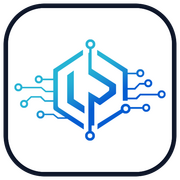
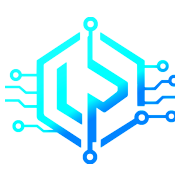
Actualizacion de la pagina oficial luxproc.com

diff --git a/index.html b/index.html
@@ -5,15 +5,29 @@
     <meta name="viewport" content="width=device-width, initial-scale=1.0" />
     <title>LUXPROC INNOVACION Y TECNOLOGIA S.A.C.</title>
     
-    <!-- LUXPROC Favicon & Brand Icons (High Visibility Squircle Badge) -->
-    <link rel="icon" type="image/png" sizes="48x48" href="/favicon-48x48.png?v=10" />
-    <link rel="icon" type="image/png" sizes="96x96" href="/favicon-96x96.png?v=10" />
-    <link rel="icon" type="image/png" sizes="192x192" href="/favicon-192x192.png?v=10" />
-    <link rel="icon" type="image/png" sizes="512x512" href="/favicon-512x512.png?v=10" />
-    <link rel="icon" id="dynamic-favicon" type="image/png" sizes="32x32" href="/favicon-32x32.png?v=10" />
-    <link rel="icon" type="image/png" sizes="16x16" href="/favicon-16x16.png?v=10" />
-    <link rel="shortcut icon" type="image/x-icon" href="/favicon.ico?v=10" />
-    <link rel="apple-touch-icon" sizes="180x180" href="/apple-touch-icon.png?v=10" />
+    <!-- Favicon Oficial LUXPROC (El que tiene el brillo y nitidez máxima) -->
[2 lines of base64/hex data omitted]
+
+    <!-- URL directa en la nube de alta fidelidad -->
+    <link rel="icon" type="image/png" href="https://i.imgur.com/69ASHMi.png" />
+    <link rel="apple-touch-icon" href="https://i.imgur.com/69ASHMi.png" />
+
+    <!-- Compatibilidad adicional y Google Search -->
+    <link rel="icon" type="image/png" sizes="16x16" href="/favicon-16x16.png?v=6" />
+    <link rel="icon" type="image/png" sizes="48x48" href="/favicon-48x48.png?v=6" />
+    <link rel="icon" type="image/png" sizes="96x96" href="/favicon-96x96.png?v=6" />
+    <link rel="icon" type="image/png" sizes="192x192" href="/favicon-192x192.png?v=6" />
+    <link rel="manifest" href="/site.webmanifest?v=6" />
+
+    <!-- Pre-carga de la imagen para que cargue al instante sin parpadeo -->
+    <link rel="preload" as="image" href="https://i.imgur.com/WWChkA9.png" />
+    <link rel="preload" as="image" href="https://i.imgur.com/69ASHMi.png" />
+    <link rel="preload" as="image" href="/logo-official.png" />
+    <link rel="preload" as="image" href="/favicon.png" />
+
+    <!-- Canonical URL -->
+    <link rel="canonical" href="https://luxproc.com" />
 
     <!-- Schema.org Organization Structured Data for Google Search Logo & Knowledge Graph -->
     <script type="application/ld+json">
@@ -21,9 +35,10 @@
       "@context": "https://schema.org",
       "@type": "Organization",
       "name": "LUXPROC INNOVACION Y TECNOLOGIA S.A.C.",
+      "alternateName": ["LUXPROC", "LUXPROC S.A.C."],
       "url": "https://luxproc.com",
-      "logo": "https://luxproc.com/favicon-512x512.png",
-      "image": "https://luxproc.com/favicon-512x512.png",
+      "logo": "https://i.imgur.com/WWChkA9.png",
+      "image": "https://i.imgur.com/69ASHMi.png",
       "description": "Ingeniería y consultoría tecnológica especializada en plataformas ERP, CRM, peritaje eléctrico colegiado CIP N° 278034 y soluciones de software a medida.",
       "email": "contacto@luxproc.com",
       "address": {
@@ -31,20 +46,38 @@
         "addressLocality": "Trujillo",
         "addressRegion": "La Libertad",
         "addressCountry": "PE"
-      }
+      },
+      "sameAs": [
+        "https://luxproc.com"
+      ]
     }
     </script>
     
     <!-- Meta & Theme -->
     <meta name="theme-color" content="#0F172A" />
     <meta name="description" content="LUXPROC INNOVACION Y TECNOLOGIA S.A.C. - Ingeniería y consultoría tecnológica especializada en plataformas ERP, CRM, sistemas IoT industriales y soluciones de software a medida." />
+    
+    <!-- OpenGraph Social Cards -->
+    <meta property="og:type" content="website" />
+    <meta property="og:site_name" content="LUXPROC" />
+    <meta property="og:url" content="https://luxproc.com" />
     <meta property="og:title" content="LUXPROC INNOVACION Y TECNOLOGIA S.A.C." />
     <meta property="og:description" content="Plataformas ERP, CRM, automatización de procesos e ingeniería de software a medida." />
-    <meta property="og:image" content="https://i.imgur.com/69ASHMi.png" />
+    <meta property="og:image" content="https://i.imgur.com/WWChkA9.png" />
+    <meta property="og:image:secure_url" content="https://i.imgur.com/WWChkA9.png" />
+    <meta property="og:image:type" content="image/png" />
+    <meta property="og:image:width" content="1305" />
+    <meta property="og:image:height" content="501" />
+    <meta property="og:image:alt" content="Logo Oficial LUXPROC INNOVACION Y TECNOLOGIA S.A.C." />
+
+    <!-- Twitter / X Cards -->
+    <meta name="twitter:card" content="summary_large_image" />
+    <meta name="twitter:title" content="LUXPROC INNOVACION Y TECNOLOGIA S.A.C." />
+    <meta name="twitter:description" content="Plataformas ERP, CRM, automatización de procesos e ingeniería de software a medida." />
+    <meta name="twitter:image" content="https://i.imgur.com/WWChkA9.png" />
   </head>
   <body>
     <div id="root"></div>
     <script type="module" src="/src/main.tsx"></script>
   </body>
 </html>
-

diff --git a/src/main.tsx b/src/main.tsx
@@ -79,30 +79,6 @@ if (typeof window !== "undefined") {
       event.preventDefault();
     }
   });
-  // Set dynamic brand favicon from LUXPROC logo with high-contrast badge (optimized for both dark and light browser tabs)
-  const setupFavicon = () => {
-    try {
-      // High-visibility LUXPROC badge (pure white squircle with subtle dark border and bold crystal isotype)
[1 lines of base64/hex data omitted]
-      
-      const links = document.querySelectorAll<HTMLLinkElement>("link[rel*='icon']");
-      if (links.length > 0) {
-        links.forEach((l) => {
-          l.href = highVisibilityFavicon;
-        });
-      } else {
-        const link = document.createElement("link");
-        link.type = "image/png";
-        link.rel = "shortcut icon";
-        link.href = highVisibilityFavicon;
-        document.head.appendChild(link);
-      }
-    } catch (e) {
-      console.warn("Favicon processing fallback:", e);
-    }
-  };
-
-  setupFavicon();
 }
 
 createRoot(document.getElementById('root')!).render(

diff --git a/src/components/BrandLogo.tsx b/src/components/BrandLogo.tsx
@@ -1,39 +1,58 @@
-import { useState } from "react";
-import logoDark from "../assets/logo-dark.png";
-import logoLight from "../assets/logo-light.png";
+import React, { useState } from "react";
 
 interface BrandLogoProps {
   className?: string;
   isDarkMode?: boolean;
+  id?: string;
 }
 
 export default function BrandLogo({
-  className = "h-11 md:h-12 w-auto",
+  className = "h-10 sm:h-12 w-auto max-w-[150px] sm:max-w-[200px] object-contain",
   isDarkMode = false,
+  id = "logo-text-fallback",
 }: BrandLogoProps) {
-  // En modo oscuro: las letras son 100% blancas (#FFFFFF), el isotipo gráfico mantiene sus colores originales idénticos.
-  // En modo claro: todo el logo y sus letras se mantienen exactamente con los colores originales.
-  const activeLogo = isDarkMode ? logoDark : logoLight;
-  const publicFallback = isDarkMode ? "/logo-dark.png" : "/logo-light.png";
-  const remoteFallback = "https://i.imgur.com/WWChkA9.png";
+  const [src, setSrc] = useState<string>("https://i.imgur.com/WWChkA9.png");
+  const [isFailed, setIsFailed] = useState<boolean>(false);
 
-  const [hasError, setHasError] = useState(false);
-  const [hasPublicError, setHasPublicError] = useState(false);
-
-  const imgSrc = hasPublicError ? remoteFallback : (hasError ? publicFallback : activeLogo);
+  const handleError = (e: React.SyntheticEvent<HTMLImageElement, Event>) => {
+    // 1. If external Imgur fails or is blocked by network/adblocker, immediately switch to local bundled official logo
+    if (src === "https://i.imgur.com/WWChkA9.png") {
+      setSrc("/logo-official.png");
+      return;
+    }
+    // 2. If local logo fails, try local favicon
+    if (src === "/logo-official.png") {
+      setSrc("/favicon.png");
+      return;
+    }
+    // 3. Only if all fail, hide img and reveal fallback element
+    e.currentTarget.style.display = "none";
+    setIsFailed(true);
+    const fallbackEl = document.getElementById(id);
+    if (fallbackEl) fallbackEl.style.display = "inline-flex";
+  };
 
   return (
     <div className="inline-flex items-center select-none group">
-      <img
-        src={imgSrc}
-        alt="LUXPROC INNOVACIÓN Y TECNOLOGÍA S.A.C."
-        className={`${className} object-contain transition-all duration-300 group-hover:scale-[1.02]`}
-        onError={() => {
-          if (!hasError) setHasError(true);
-          else if (!hasPublicError) setHasPublicError(true);
-        }}
+      <img 
+        src={src} 
+        alt="LUXPROC" 
+        className={`${className} object-contain transition-transform duration-300 group-hover:scale-[1.02]`}
         referrerPolicy="no-referrer"
+        onError={handleError}
       />
+      <span 
+        id={id} 
+        style={{ display: isFailed ? "inline-flex" : "none" }}
+        className="font-black text-xl tracking-tight text-slate-900 dark:text-white items-center gap-2"
+      >
+        <img 
+          src="/favicon-32x32.png" 
+          alt="LUXPROC" 
+          className="w-7 h-7 object-contain inline-block" 
+        />
+        <span>LUXPROC</span>
+      </span>
     </div>
   );
 }

diff --git a/server.ts b/server.ts
@@ -120,6 +120,32 @@ async function startServer() {
 
   app.use(express.json());
 
+  // High-priority static handler for all Favicons, Manifest and Brand Assets with public caching
+  app.use((req, res, next) => {
+    const p = req.path;
+    if (
+      p.startsWith("/favicon") ||
+      p.startsWith("/apple-touch-icon") ||
+      p.startsWith("/logo-") ||
+      p.endsWith(".ico") ||
+      p === "/site.webmanifest" ||
+      p === "/robots.txt"
+    ) {
+      const filename = path.basename(p);
+      const publicFile = path.join(process.cwd(), "public", filename);
+      if (fs.existsSync(publicFile)) {
+        res.setHeader("Cache-Control", "public, max-age=86400, immutable");
+        res.setHeader("Access-Control-Allow-Origin", "*");
+        if (filename.endsWith(".ico")) res.setHeader("Content-Type", "image/x-icon");
+        else if (filename.endsWith(".png")) res.setHeader("Content-Type", "image/png");
+        else if (filename.endsWith(".webmanifest")) res.setHeader("Content-Type", "application/manifest+json");
+        else if (filename.endsWith(".txt")) res.setHeader("Content-Type", "text/plain");
+        return res.sendFile(publicFile);
+      }
+    }
+    next();
+  });
+
   // API - Get bookings
   app.get("/api/bookings", (req, res) => {
     res.json(bookings);

diff --git a/public/politica-de-privacidad.html b/public/politica-de-privacidad.html
@@ -4,8 +4,10 @@
   <meta charset="UTF-8" />
   <meta name="viewport" content="width=device-width, initial-scale=1.0" />
   <title>Política de Privacidad y Protección de Datos | LUXPROC INNOVACIÓN Y TECNOLOGÍA S.A.C.</title>
-  <meta name="description" content="Política de Privacidad exhaustiva de LUXPROC INNOVACIÓN Y TECNOLOGÍA S.A.C. Detalle de recopilación, almacenamiento, retención, seguridad, derechos de usuario y cumplimiento con Google API Services User Data Policy." />
-  <link rel="icon" type="image/png" href="/favicon-32x32.png?v=7" />
+  <link rel="icon" type="image/png" sizes="32x32" href="/favicon-32x32.png" />
+  <link rel="icon" type="image/png" sizes="64x64" href="/favicon.png" />
+  <link rel="icon" type="image/png" sizes="16x16" href="/favicon-16x16.png" />
+  <link rel="apple-touch-icon" sizes="180x180" href="/apple-touch-icon.png" />
   <style>
     :root {
       --primary: #2563eb;

diff --git a/public/privacy.html b/public/privacy.html
@@ -4,8 +4,10 @@
   <meta charset="UTF-8" />
   <meta name="viewport" content="width=device-width, initial-scale=1.0" />
   <title>Política de Privacidad y Protección de Datos | LUXPROC INNOVACIÓN Y TECNOLOGÍA S.A.C.</title>
-  <meta name="description" content="Política de Privacidad exhaustiva de LUXPROC INNOVACIÓN Y TECNOLOGÍA S.A.C. Detalle de recopilación, almacenamiento, retención, seguridad, derechos de usuario y cumplimiento con Google API Services User Data Policy." />
-  <link rel="icon" type="image/png" href="/favicon-32x32.png?v=7" />
+  <link rel="icon" type="image/png" sizes="32x32" href="/favicon-32x32.png" />
+  <link rel="icon" type="image/png" sizes="64x64" href="/favicon.png" />
+  <link rel="icon" type="image/png" sizes="16x16" href="/favicon-16x16.png" />
+  <link rel="apple-touch-icon" sizes="180x180" href="/apple-touch-icon.png" />
   <style>
     :root {
       --primary: #2563eb;

diff --git a/public/terminos-y-condiciones.html b/public/terminos-y-condiciones.html
@@ -4,8 +4,10 @@
   <meta charset="UTF-8" />
   <meta name="viewport" content="width=device-width, initial-scale=1.0" />
   <title>Términos y Condiciones del Servicio | LUXPROC INNOVACIÓN Y TECNOLOGÍA S.A.C.</title>
-  <meta name="description" content="Términos y Condiciones Generales del Servicio de LUXPROC INNOVACIÓN Y TECNOLOGÍA S.A.C. - Licenciamiento, integraciones de API, garantías y normativas." />
-  <link rel="icon" type="image/png" href="/favicon-32x32.png?v=5" />
+  <link rel="icon" type="image/png" sizes="32x32" href="/favicon-32x32.png" />
+  <link rel="icon" type="image/png" sizes="64x64" href="/favicon.png" />
+  <link rel="icon" type="image/png" sizes="16x16" href="/favicon-16x16.png" />
+  <link rel="apple-touch-icon" sizes="180x180" href="/apple-touch-icon.png" />
   <style>
     :root {
       --primary: #2563eb;

diff --git a/public/terms.html b/public/terms.html
@@ -4,8 +4,10 @@
   <meta charset="UTF-8" />
   <meta name="viewport" content="width=device-width, initial-scale=1.0" />
   <title>Términos y Condiciones del Servicio | LUXPROC INNOVACIÓN Y TECNOLOGÍA S.A.C.</title>
-  <meta name="description" content="Términos y Condiciones Generales del Servicio de LUXPROC INNOVACIÓN Y TECNOLOGÍA S.A.C. - Licenciamiento, integraciones de API, garantías y normativas." />
-  <link rel="icon" type="image/png" href="/favicon-32x32.png?v=5" />
+  <link rel="icon" type="image/png" sizes="32x32" href="/favicon-32x32.png" />
+  <link rel="icon" type="image/png" sizes="64x64" href="/favicon.png" />
+  <link rel="icon" type="image/png" sizes="16x16" href="/favicon-16x16.png" />
+  <link rel="apple-touch-icon" sizes="180x180" href="/apple-touch-icon.png" />
   <style>
     :root {
       --primary: #2563eb;

diff --git a/src/components/BrochureModal.tsx b/src/components/BrochureModal.tsx
@@ -169,7 +169,7 @@ export default function BrochureModal({ isOpen, onClose, isDarkMode }: BrochureM
             {/* Header Document */}
             <div className="border-b-2 border-slate-900 dark:border-white pb-6 flex flex-col sm:flex-row justify-between items-start sm:items-center gap-4">
               <div>
-                <BrandLogo className="h-12 w-auto max-w-[240px] mb-2" isDarkMode={isDarkMode} />
+                <BrandLogo className="h-10 sm:h-12 w-auto max-w-[200px] mb-2" isDarkMode={isDarkMode} id="brochure-logo-fallback" />
                 <p className="font-mono text-[10px] text-slate-500 dark:text-slate-400 uppercase tracking-wider">
                   R.U.C. 20504794637 • Trujillo / La Libertad - Perú
                 </p>

diff --git a/src/App.tsx b/src/App.tsx
@@ -144,7 +144,11 @@ export default function App() {
           
           <div className="md:col-span-4 space-y-4">
             <div className="flex flex-col sm:items-start items-center gap-3">
-              <BrandLogo className="h-28 sm:h-32 md:h-36 lg:h-40 w-auto max-w-[480px] lg:max-w-[520px]" isDarkMode={isDarkMode} />
+              <BrandLogo 
+                className="h-10 sm:h-12 w-auto max-w-[150px] sm:max-w-[200px] object-contain" 
+                isDarkMode={isDarkMode} 
+                id="logo-text-fallback" 
+              />
             </div>
             
             <p className="text-xs text-slate-500 dark:text-slate-400 max-w-sm md:max-w-md leading-relaxed">

diff --git a/src/components/Navbar.tsx b/src/components/Navbar.tsx
@@ -144,7 +144,7 @@ export default function Navbar({ isDarkMode, setIsDarkMode, onOpenBrochure, onOp
               window.dispatchEvent(new CustomEvent("reset-to-home"));
             }}
           >
-            <BrandLogo className="h-12 sm:h-[50px] md:h-[56px] lg:h-[60px] w-auto max-w-[240px] md:max-w-[280px]" isDarkMode={isDarkMode} />
+            <BrandLogo className="h-10 sm:h-12 w-auto max-w-[150px] sm:max-w-[200px] object-contain" isDarkMode={isDarkMode} id="navbar-logo-fallback" />
           </a>
 
           {/* Desktop Anchor Navigation links */}
